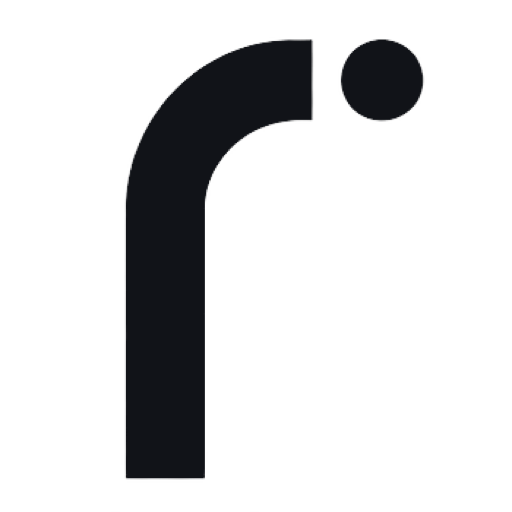
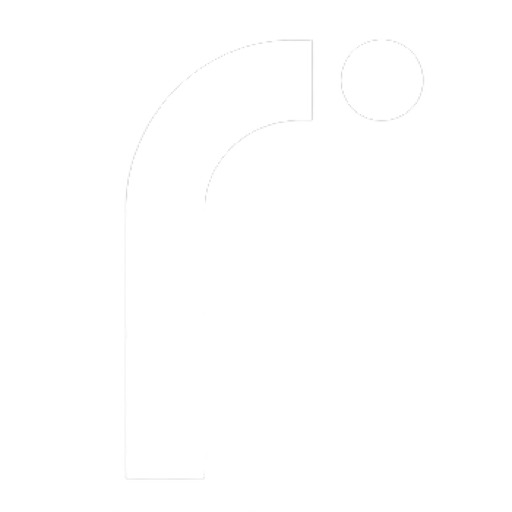
favico

Changed region(s): [[0.2188, 0.0625, 0.625, 0.9375], [0.6562, 0.0625, 0.8438, 0.25]]

diff --git a/app/layout.tsx b/app/layout.tsx
@@ -61,29 +61,6 @@ export const metadata: Metadata = {
     images: ["/og/renowa-og.svg"],
   },
   category: "technology",
-  icons: {
-    icon: [
-      {
-        url: "/favicon.ico",
-        sizes: "48x48",
-        type: "image/x-icon",
-      },
-      {
-        url: "/logo/compact/renowa-labs-favicon-light.png",
-        sizes: "512x512",
-        type: "image/png",
-        media: "(prefers-color-scheme: light)",
-      },
-      {
-        url: "/logo/compact/renowa-labs-favicon-dark.png",
-        sizes: "512x512",
-        type: "image/png",
-        media: "(prefers-color-scheme: dark)",
-      },
-    ],
-    shortcut: "/favicon.ico",
-    apple: [{ url: "/logo/compact/renowa-labs-favicon-light.png", sizes: "512x512", type: "image/png" }],
-  },
 };
 
 const structuredData = {
